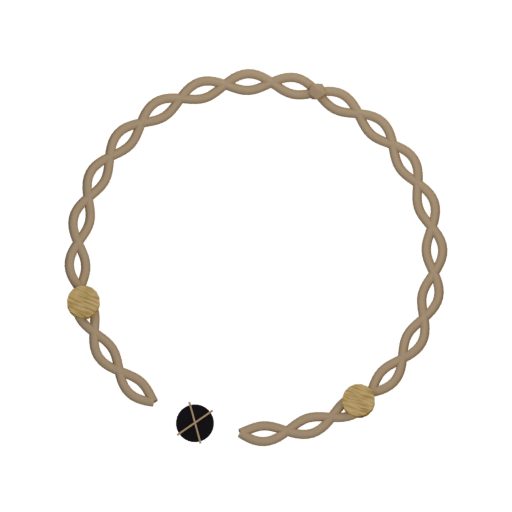
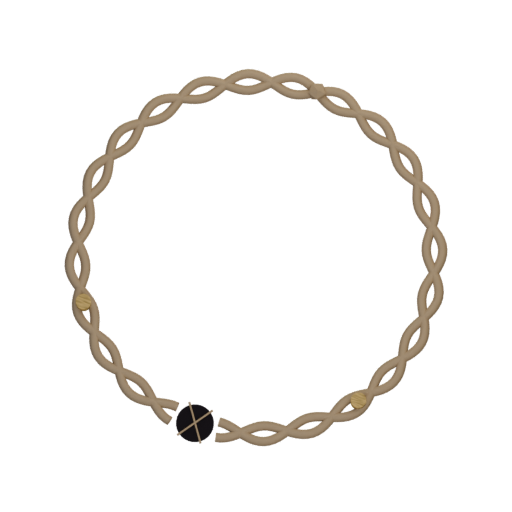
bracelet: the braid was cut 2.2x wider than the seat filling it
Two defects, both found by ARITHMETIC and a geometry probe rather than by looking at
the render — because looking at the render gave me the wrong answer first.

1. THE SEAT GAP WAS NEVER SNUG, AND THE DOCSTRING SAID IT WAS. `seat_gap_deg` was a
hardcoded 27 while a SEAT_R=0.086 seat on an R=0.82 ring spans 12 degrees, so 55% of
every gap was bare background. On a dark ground that is fatal: the void is near-black,
the background is near-black, and with no material touching the void's edge there is
no boundary to see. It rendered as a detached blob beside a broken ring.
⚠ I first read that render as "the seats are floating off the ring" and was about to
fix a position bug that did not exist. A bpy probe said otherwise: 88 verts sit exactly
on each expected seat centre and every vertex lies in a 0.724-0.917 band around R=0.82.
The geometry was always right. A 2D projection of a near-black object on a near-black
field is not an instrument for judging position.
★ The docstring is the trap worth naming: it ASSERTS the gap is "SNUG (close to the
seat's own footprint)". Read the code and it agrees with itself. Only the arithmetic
disagrees, and nothing in the file computes it.
Fixed by DERIVING the gap from the seat: pass seat_r and the gap is
degrees(2*(seat_r + strand_r*0.30)/major_r) — the braid end kisses the void and cannot
drift from it again. Bare background per side: 0.107 -> 0.007. An explicit
[…]

diff --git a/tools/render/vessel_bracelet.py b/tools/render/vessel_bracelet.py
@@ -61,7 +61,7 @@ def build_bracelet(tier, seats):
         closure_mat = None
         strand_r = 0.022
         top_z = strand_r * SCALE_Z
-        parts += build_woven_ring(R, strand_r, seat_angles, ring_mat, n_strands=1,
+        parts += build_woven_ring(R, strand_r, seat_angles, ring_mat, seat_r=SEAT_R, n_strands=1,
                                    name_prefix="bracelet-t0")
         # the adjustable slip-knot tie — top of the ring, opposite the seat
         kx, ky, kz = ring_point(90, R, top_z)
@@ -81,12 +81,21 @@ def build_bracelet(tier, seats):
         closure_mat = ring_mat
         strand_r = 0.021
         top_z = strand_r * SCALE_Z
-        parts += build_woven_ring(R, strand_r, seat_angles, ring_mat, n_strands=2,
+        parts += build_woven_ring(R, strand_r, seat_angles, ring_mat, seat_r=SEAT_R, n_strands=2,
                                    name_prefix="bracelet-t1")
         bead_mat = mat_wood("bracelet-goldwood-bead", (0.72, 0.50, 0.15), rough=0.5, grain_scale=16)
+        # ⚠ THESE ARE DECORATION AND MUST NEVER BE COUNTABLE AS SEATS (fixed 2026-09-09, play lane).
+        # They were radius 0.075 against a seat's SEAT_R 0.086 — same disc, same axis, same size,
+        # differing only in colour. On a ONE-seat bracelet that renders three seat-shaped discs, and
+        # the single job this silhouette has is "a player reads how loaded a keeper is from across
+        # the square". A decoration indistinguishable from a seat does not merely fail to help, it
+        # reports a fill level the vessel does not have — the same defect as the panel's hardcoded
+        # three seats, in geometry instead of in a map. Kept (the tier IS the material, and goldwood
+        # is what says tier 1) but sized so they cannot be mistaken for a seat at panel scale.
+        bead_r = SEAT_R * 0.42
         for ang in (-90 - 55, -90 + 55):
             bx, by, bz = ring_point(ang, R, top_z)
-            bead = add(bpy.ops.mesh.primitive_cylinder_add, vertices=16, radius=0.075, depth=0.05,
+            bead = add(bpy.ops.mesh.primitive_cylinder_add, vertices=16, radius=bead_r, depth=0.05,
                        location=(bx, by, bz + 0.02))
             bead.rotation_euler = (0, 0, math.radians(ang))
             assign(bead, bead_mat)
@@ -101,7 +110,7 @@ def build_bracelet(tier, seats):
         closure_mat = mat_sap("bracelet-sap-seat", (0.60, 0.33, 0.05))
         strand_r = 0.030
         top_z = strand_r * SCALE_Z
-        parts += build_woven_ring(R, strand_r, seat_angles, ring_mat, n_strands=2,
+        parts += build_woven_ring(R, strand_r, seat_angles, ring_mat, seat_r=SEAT_R, n_strands=2,
                                    name_prefix="bracelet-t2")
 
     else:
@@ -109,7 +118,7 @@ def build_bracelet(tier, seats):
         closure_mat = mat_nacre("bracelet-nacre-seat")
         strand_r = 0.029
         top_z = strand_r * SCALE_Z
-        parts += build_woven_ring(R, strand_r, seat_angles, ring_mat, n_strands=2,
+        parts += build_woven_ring(R, strand_r, seat_angles, ring_mat, seat_r=SEAT_R, n_strands=2,
                                    name_prefix="bracelet-t3")
         # silver-thread (moonvine fibre) peeking from the inner edge of the pearlshell band —
         # ⚠ matte, non-metallic on purpose; see mat_silverthread's own note on the reflex risk

diff --git a/tools/render/vessel_common.py b/tools/render/vessel_common.py
@@ -404,8 +404,9 @@ def _tube_from_points(name, points, radius, mat, bevel_res=3, resolution_u=3):
     return obj
 
 
-def build_woven_ring(major_r, strand_r, seat_angles_deg, mat, n_strands=2, seat_gap_deg=27,
-                      n_periods=12, amp_ratio=1.8, scale_z=0.34, min_run_deg=18, name_prefix="ring"):
+def build_woven_ring(major_r, strand_r, seat_angles_deg, mat, n_strands=2, seat_gap_deg=None,
+                      n_periods=12, amp_ratio=1.8, scale_z=0.34, min_run_deg=18, name_prefix="ring",
+                      seat_r=None):
     """A ring of `n_strands` (1 = a plain single cord, 2 = two strands that visibly interleave)
     built as real tube geometry, broken into arcs so each angle in `seat_angles_deg` interrupts
     every strand. Returns the list of tube mesh objects (join them with the rest of the part).
@@ -417,7 +418,26 @@ def build_woven_ring(major_r, strand_r, seat_angles_deg, mat, n_strands=2, seat_
     braid's cut end that the seat read as floating in open space instead of nested IN the weave.
     Right fix is `min_run_deg`: keep the gap SNUG (close to the seat's own footprint) and instead
     drop any leftover run too short to read as a real strand of braid, which merges only the
-    slivers a close seat-pair produces, without pushing well-spaced seats away from the ring."""
+    slivers a close seat-pair produces, without pushing well-spaced seats away from the ring.
+
+    ★★ FIX 2026-09-09 (play lane) — THE GAP WAS NEVER ACTUALLY SNUG, AND THE COMMENT ABOVE SAID IT
+    WAS. `seat_gap_deg` was a hardcoded 27, while a SEAT_R=0.086 seat on an R=0.82 ring spans 12
+    degrees. So the braid was cut 2.2x wider than the thing filling it and **55% of every gap was
+    bare background**. On a dark ground that is fatal in a way a light one would forgive: the void
+    is near-black, the background is near-black, and with no material touching the void's edge
+    there is no boundary to see. The seat stops reading as nested in the weave and starts reading
+    as a detached blob near a broken ring — which is exactly how it renders, and exactly the same
+    failure the SVG placeholder had for the same reason.
+    ⚠ THE PROSE WAS RIGHT AND THE NUMBER WAS WRONG, which is the hard kind to catch: the docstring
+    asserts snugness, so reading the code agrees with itself and only ARITHMETIC disagrees.
+    So the gap is no longer a number that can drift from the seat — pass `seat_r` and it is DERIVED
+    from the footprint, plus a fraction of a strand so the braid end kisses the void without
+    overlapping it. `seat_gap_deg` stays as an explicit override for a caller that means it."""
+    if seat_gap_deg is None:
+        if seat_r is None:
+            raise ValueError("build_woven_ring needs seat_r (to derive the gap) or an explicit "
+                             "seat_gap_deg — a default gap is what drifted from the seat size")
+        seat_gap_deg = math.degrees(2.0 * (seat_r + strand_r * 0.30) / major_r)
     step = 1.5
     forb = [((a - seat_gap_deg / 2) % 360, (a + seat_gap_deg / 2) % 360) for a in seat_angles_deg]
 
